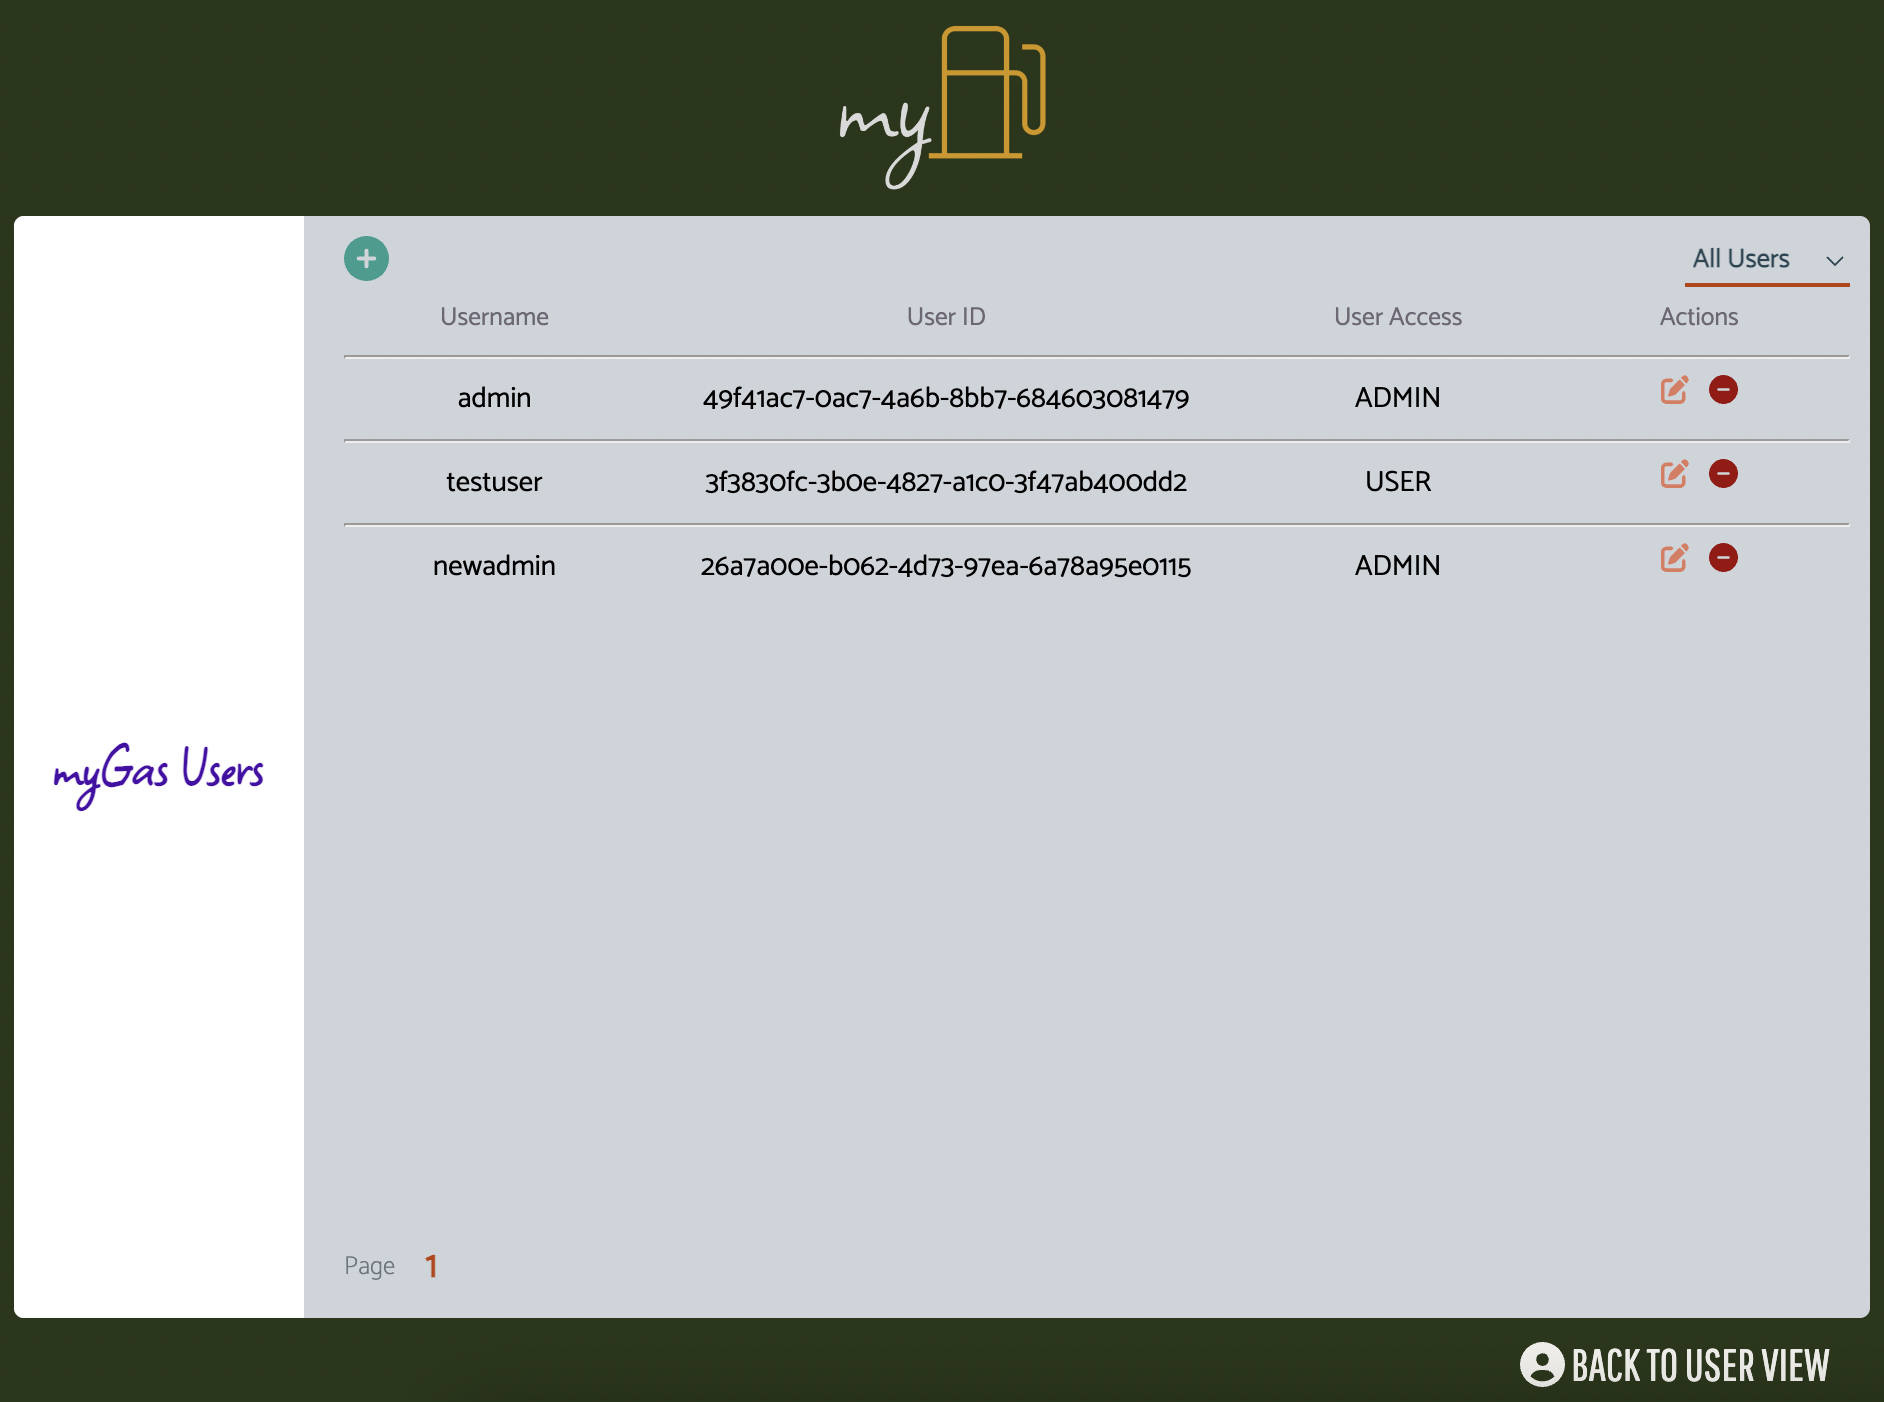
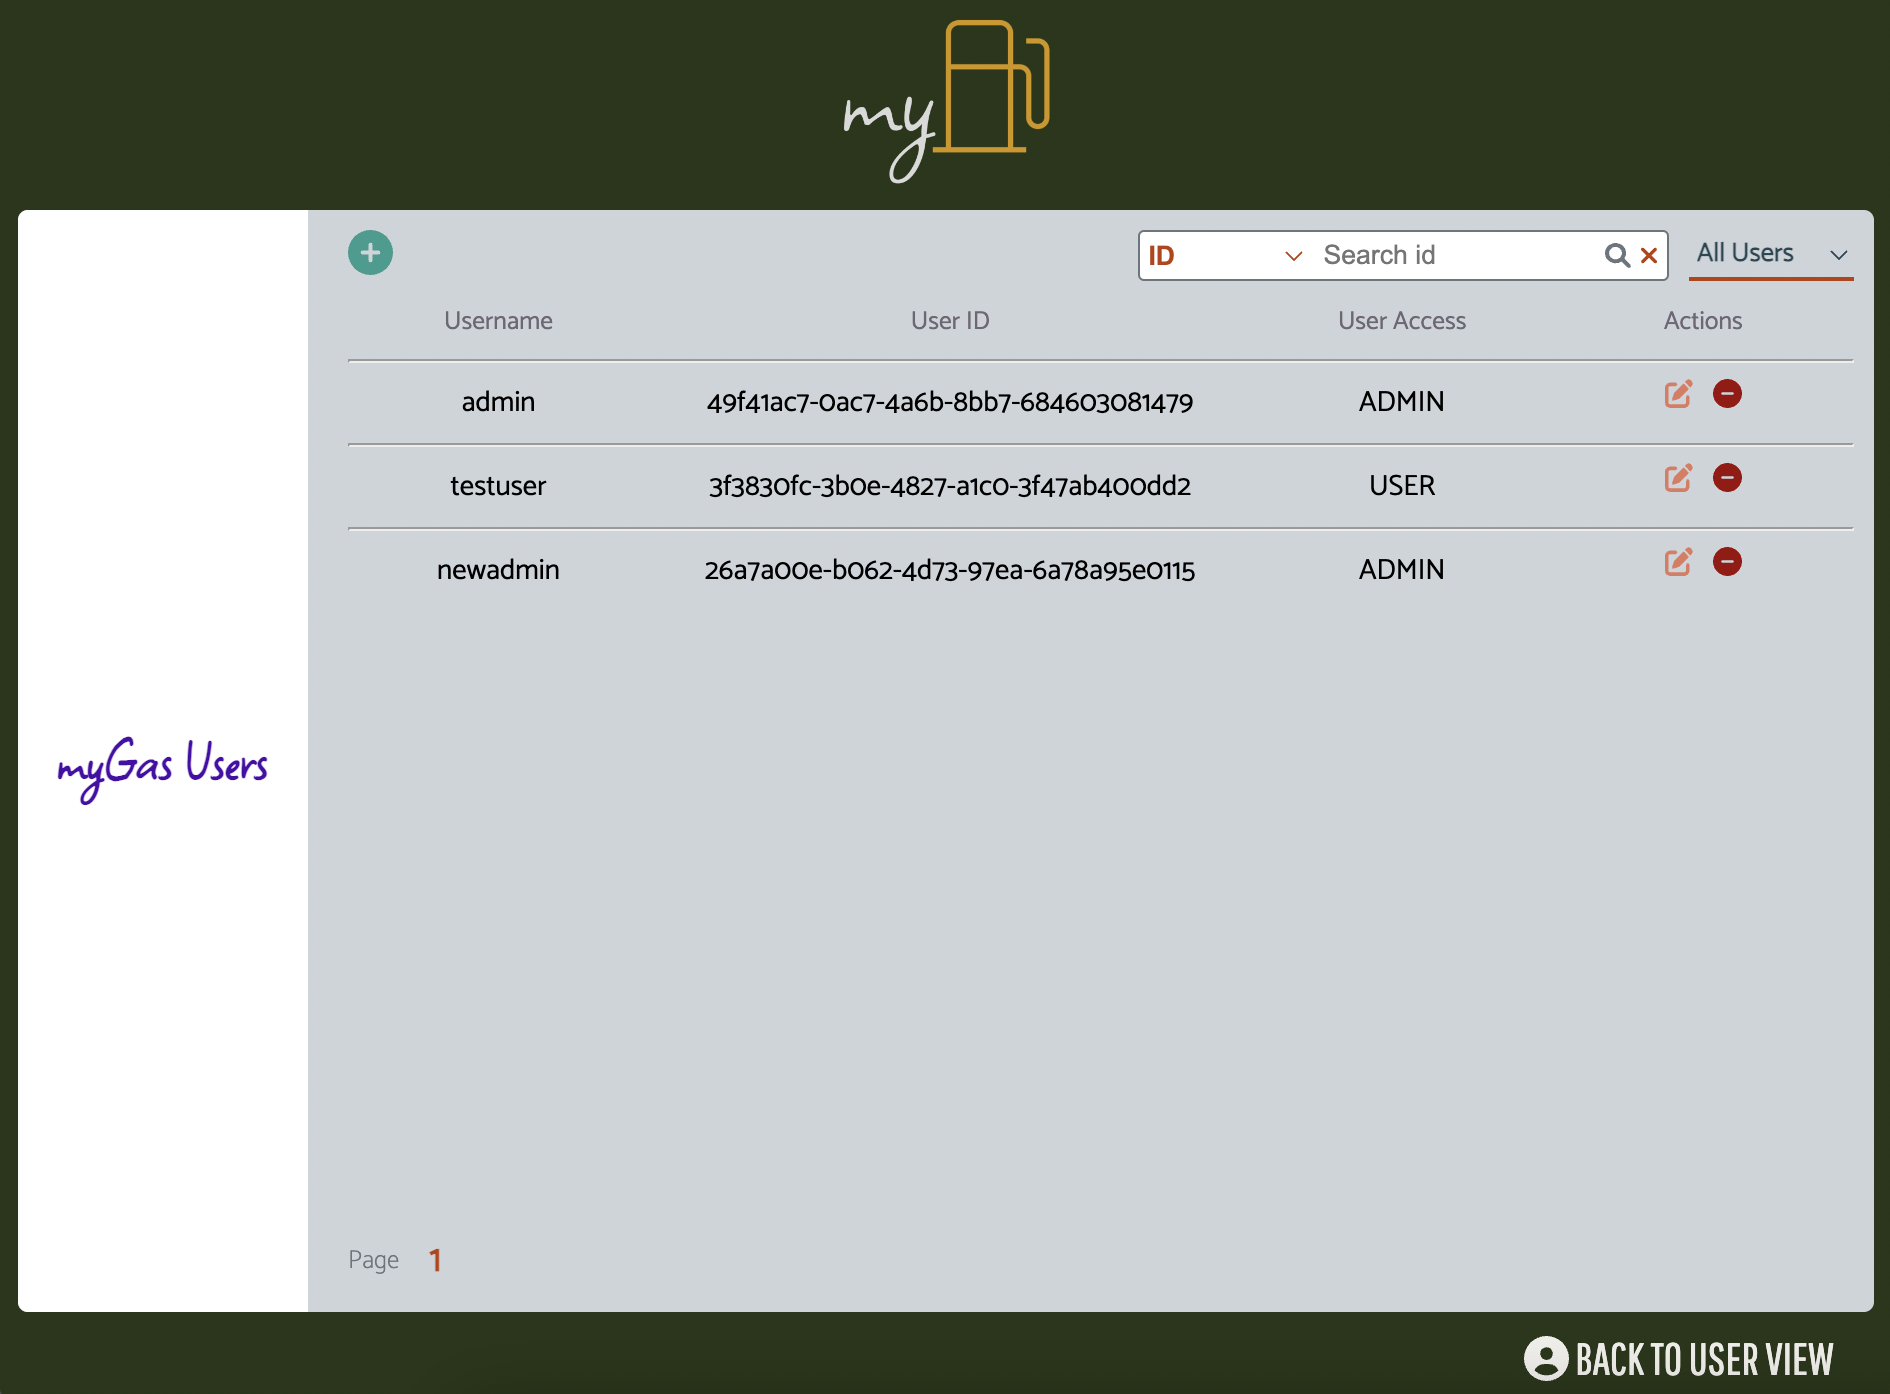
admin search id / username

diff --git a/src/ComponentsAdmin/AdminUserList.js b/src/ComponentsAdmin/AdminUserList.js
@@ -1,6 +1,10 @@
-import { useEffect, useState } from "react";
+import { useEffect, useState, useRef } from "react";
 import { FontAwesomeIcon } from "@fortawesome/react-fontawesome";
-import { faCirclePlus } from "@fortawesome/free-solid-svg-icons";
+import {
+  faCirclePlus,
+  faMagnifyingGlass,
+  faXmark,
+} from "@fortawesome/free-solid-svg-icons";
 import User from "./User";
 import NewUserDetails from "./NewUserDetails";
 
@@ -12,10 +16,18 @@ const AdminUserList = () => {
   const [filterType, setFilterType] = useState("all");
   const [updateList, setUpdateList] = useState();
   const [showCreateNew, setShowCreateNew] = useState(false);
+  const [searchType, setSearchType] = useState("id");
+  const [searchTerm, setSearchTerm] = useState("");
+
+  const searchRef = useRef();
 
   useEffect(() => {
     const fetchUsers = async () => {
-      const url = `${process.env.REACT_APP_URL_ENDPOINT}/admin/all-users?page=${page}&limit=10&filter=${filterType}`;
+      const url = `${
+        process.env.REACT_APP_URL_ENDPOINT
+      }/admin/all-users?page=${page}&limit=10&filter=${filterType}&searchType=${searchType}&searchTerm=${
+        searchTerm ? searchTerm : "none"
+      }`;
       const response = await fetch(url);
       const responseJSON = await response.json();
 
@@ -25,7 +37,7 @@ const AdminUserList = () => {
       }
     };
     fetchUsers();
-  }, [page, filterType, updateList]);
+  }, [page, filterType, updateList, searchTerm]);
 
   useEffect(() => {
     setPageNums(Array.from({ length: numPages }, (_, i) => i + 1));
@@ -39,11 +51,43 @@ const AdminUserList = () => {
           icon={faCirclePlus}
           onClick={() => setShowCreateNew(true)}
         />
-        <select onChange={(e) => setFilterType(e.target.value)}>
-          <option value="all">All Users</option>
-          <option value="admin">Admin</option>
-          <option value="user">Non-admin</option>
-        </select>
+        <div className="admin-list-top-right">
+          <div className="admin-search">
+            <select
+              value={searchType}
+              onChange={(e) => setSearchType(e.target.value)}
+            >
+              <option value="id">ID</option>
+              <option value="username">Username</option>
+            </select>
+            <input
+              ref={searchRef}
+              placeholder={`Search ${searchType}`}
+              onKeyDown={(e) => {
+                if (e.key === "Enter") setSearchTerm(e.target.value);
+              }}
+            />
+            <FontAwesomeIcon
+              title="search"
+              icon={faMagnifyingGlass}
+              onClick={() => setSearchTerm(searchRef.current.value)}
+            />
+            <FontAwesomeIcon
+              title="clear"
+              icon={faXmark}
+              style={{ color: "#bb3e03" }}
+              onClick={() => {
+                setSearchTerm("");
+                searchRef.current.value = "";
+              }}
+            />
+          </div>
+          <select onChange={(e) => setFilterType(e.target.value)}>
+            <option value="all">All Users</option>
+            <option value="admin">Admin</option>
+            <option value="user">Non-admin</option>
+          </select>
+        </div>
       </div>
       <div>
         <div className="admin-userlist-label">

diff --git a/src/index.css b/src/index.css
@@ -572,7 +572,7 @@ button.login-select, .auth-options button:hover {
 }
 
 
-.main select, .admin-list-top select{
+.main select, .admin-list-top-right>select{
 background-color: transparent;
 border: none;
 outline: none;
@@ -745,6 +745,8 @@ font-size: .8rem;
 }
 
 .admin-list-top{
+  margin-bottom: 5px;
+
   display: flex;
   justify-content: space-between;
 }
@@ -796,6 +798,40 @@ font-size: .8rem;
   font-weight: 700;
 }
 
+.admin-list-top-right{
+  display: flex;
+  gap: 10px;
+}
+
+.admin-search{
+  border: 1px solid #6c757d;
+  border-radius: 3px;
+  background-color: white;
+
+  display: flex;
+  align-items: center;
+}
+
+.admin-search select{
+  border: none;
+  outline: none;
+  color: #bb3e03;
+  font-weight: 700;
+}
+
+.admin-search input{
+  border: none;
+  outline: none;
+  background-color: transparent;
+  margin-left: 5px;
+}
+
+.admin-search svg{
+  color: #6c757d;
+  font-size: .8rem;
+  margin-right: 5px;
+}
+
 @media (min-width: 768px) {
   .login-submit-btn {
     padding: 13px 50px 13px;
@@ -834,6 +870,10 @@ font-size: .8rem;
   }
   .update-popup{
     transform: translate(-50%, -115%);
+  }
+  .admin-list-top-right{
+    flex-direction: column;
+    align-items: flex-end
   }
 }
 
